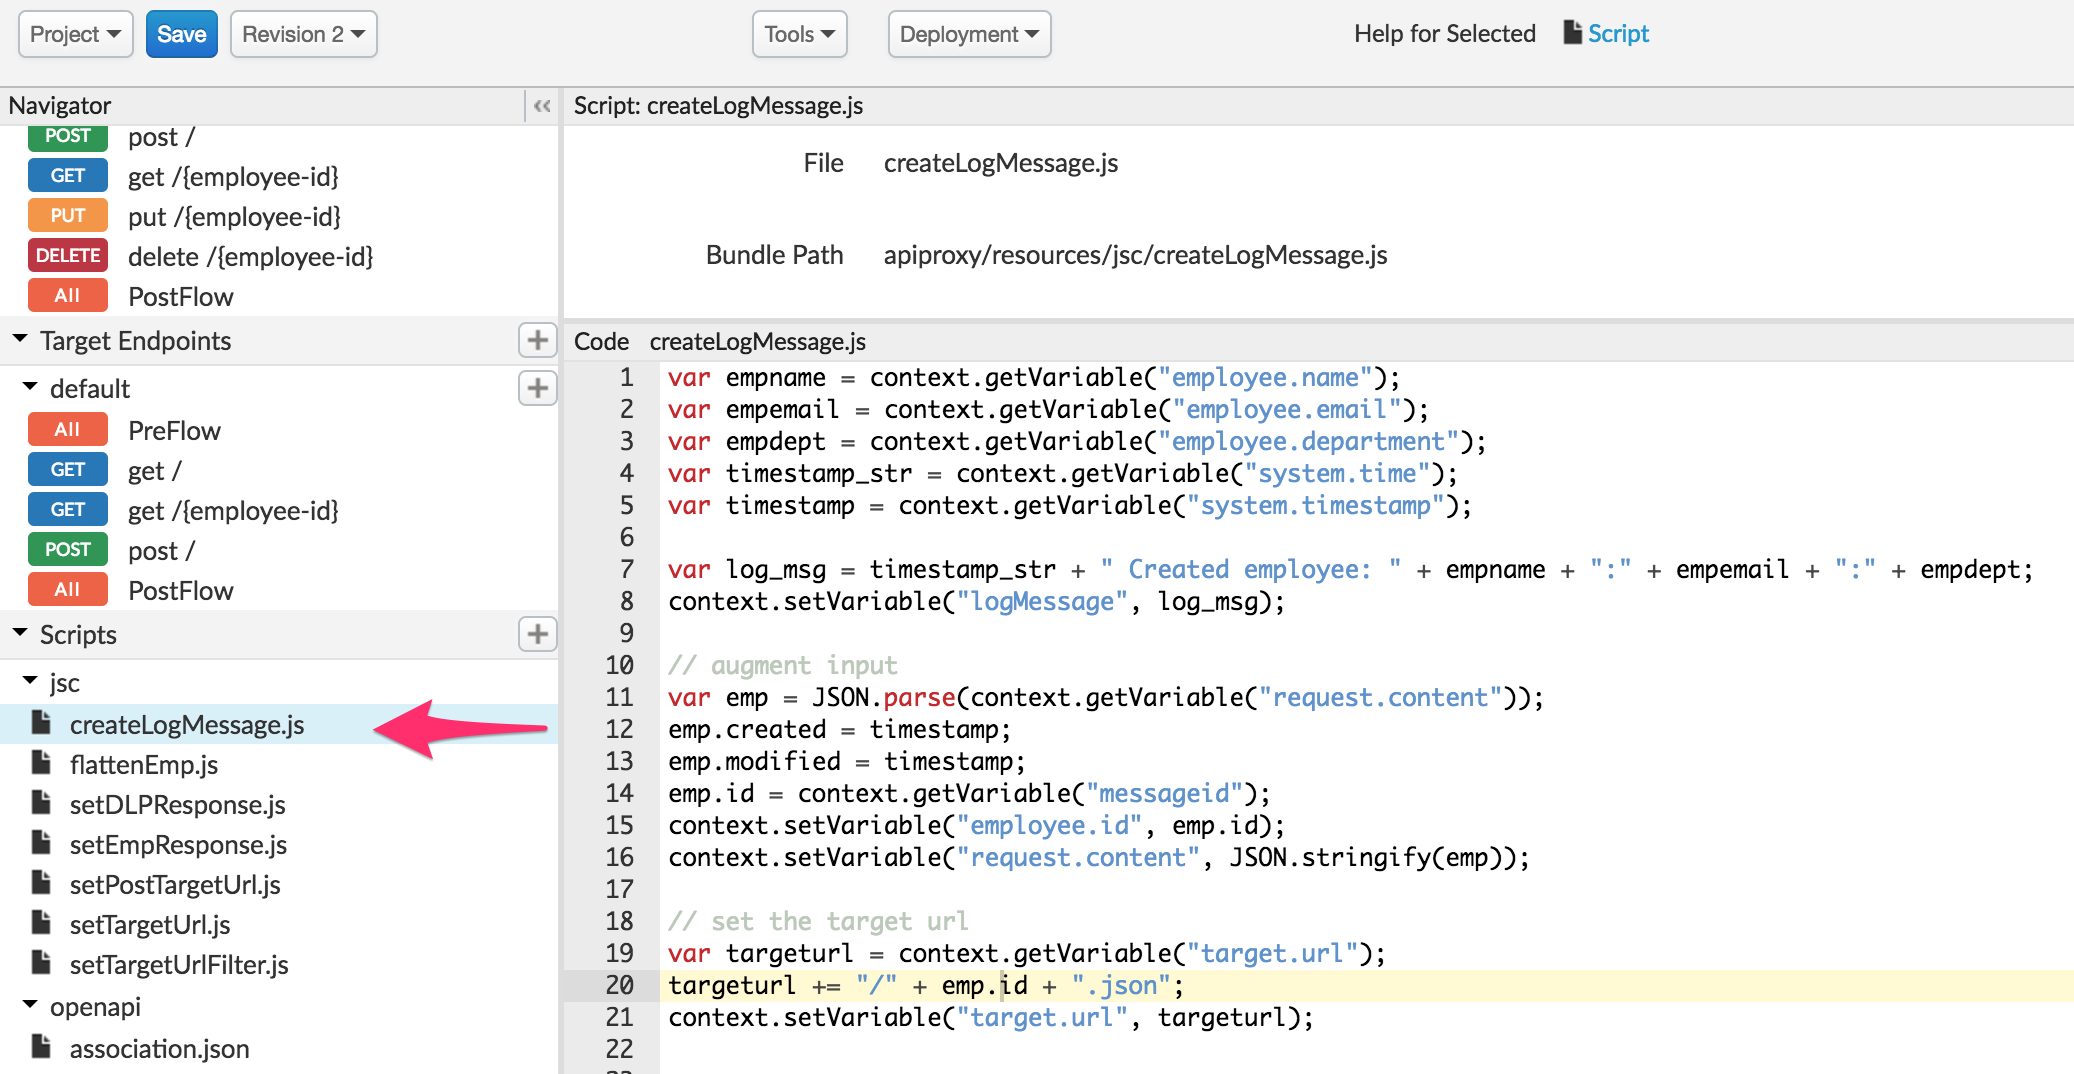
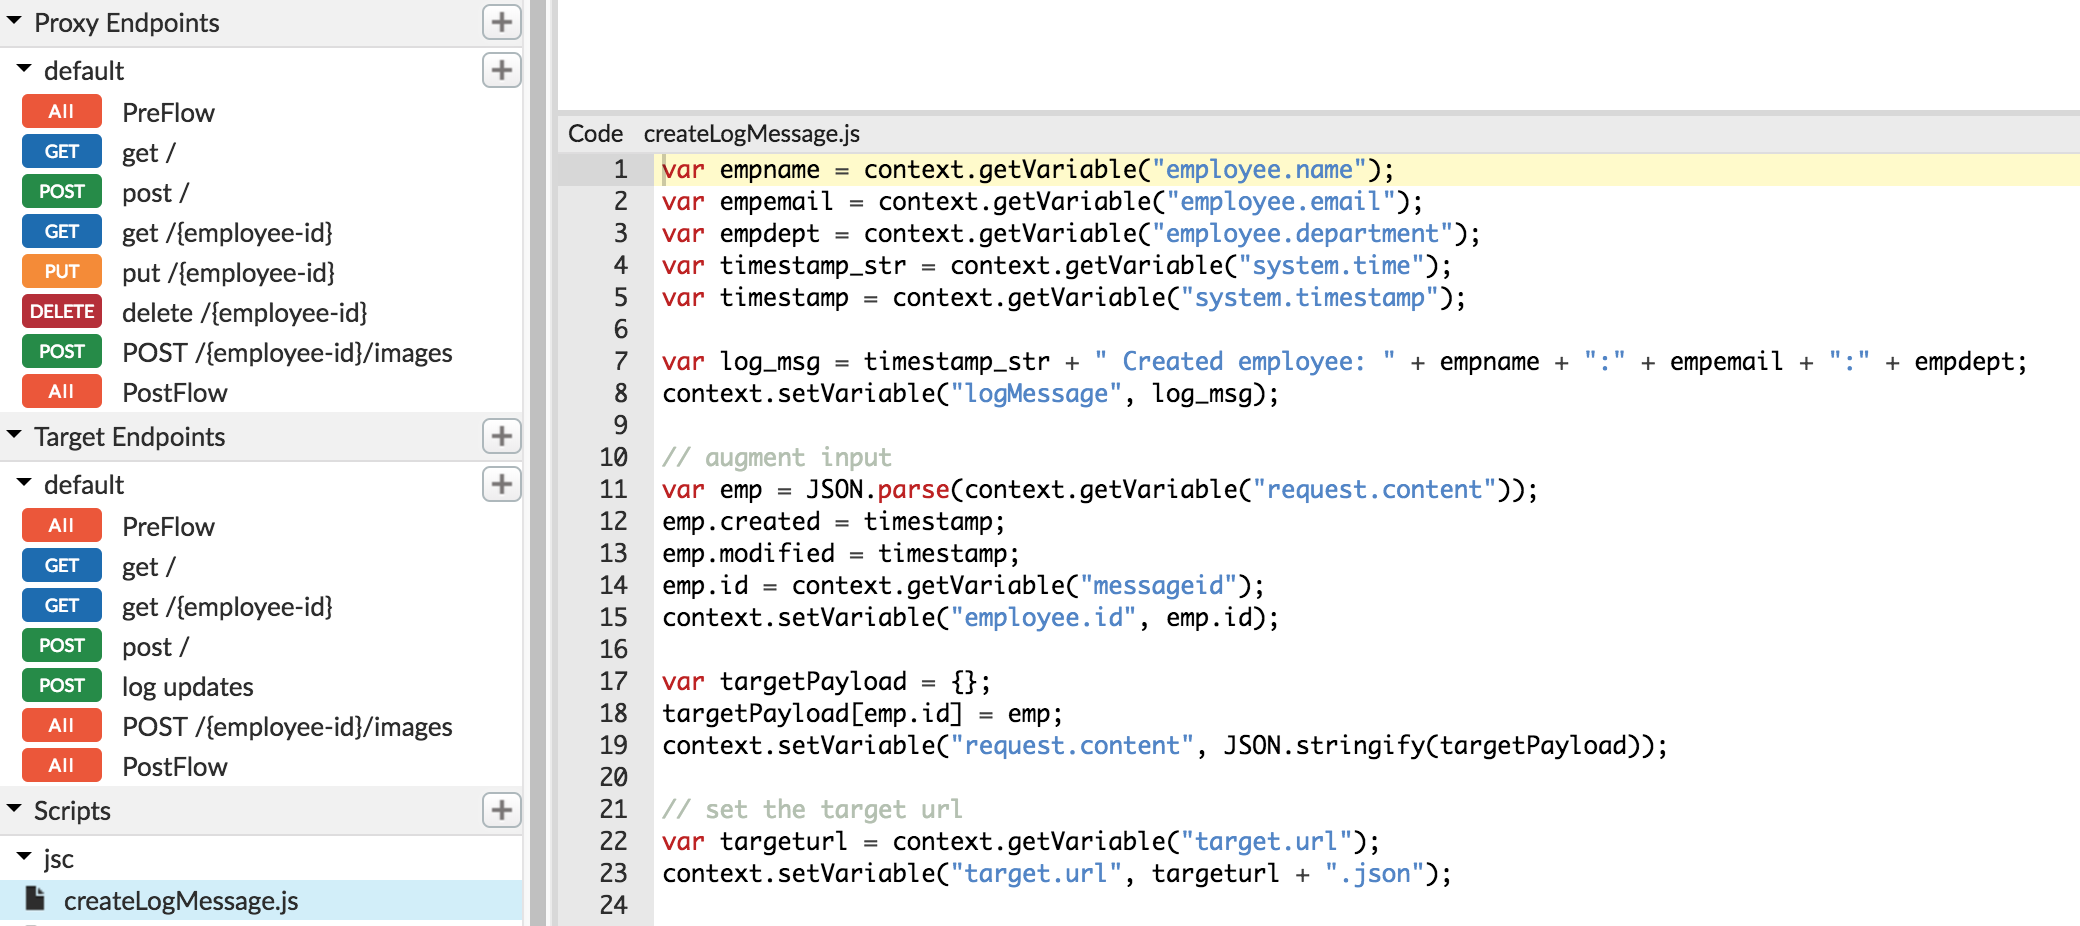
changes to proxy and related documentation

diff --git a/resources/jsc/createLogMessage.js b/resources/jsc/createLogMessage.js
@@ -1,0 +1,23 @@
+var empname = context.getVariable("employee.name");
+var empemail = context.getVariable("employee.email");
+var empdept = context.getVariable("employee.department");
+var timestamp_str = context.getVariable("system.time");
+var timestamp = context.getVariable("system.timestamp");
+
+var log_msg = timestamp_str + " Created employee: " + empname + ":" + empemail + ":" + empdept;
+context.setVariable("logMessage", log_msg);
+
+// augment input
+var emp = JSON.parse(context.getVariable("request.content"));
+emp.created = timestamp;
+emp.modified = timestamp;
+emp.id = context.getVariable("messageid");
+context.setVariable("employee.id", emp.id);
+
+var targetPayload = {};
+targetPayload[emp.id] = emp;
+context.setVariable("request.content", JSON.stringify(targetPayload));
+
+// set the target url
+var targeturl = context.getVariable("target.url");
+context.setVariable("target.url", targeturl + ".json");

diff --git a/resources/jsc/flattenEmp.js b/resources/jsc/flattenEmp.js
@@ -1,0 +1,10 @@
+var emp = context.getVariable("response.content");
+var empJson = JSON.parse(emp);
+
+for (var key in empJson) {
+  if (empJson.hasOwnProperty(key)) {
+    var val = JSON.stringify(empJson[key]);
+    val = val.replace(/"/g, '\\"');
+    context.setVariable("response.content", val);
+  }
+}

diff --git a/resources/jsc/setEmpResponse.js b/resources/jsc/setEmpResponse.js
@@ -1,0 +1,9 @@
+var emp = context.getVariable("response.content");
+var empJson = JSON.parse(emp);
+
+for (var key in empJson) {
+  if (empJson.hasOwnProperty(key)) {
+    var val = empJson[key];
+    context.setVariable("response.content", JSON.stringify(val));
+  }
+}

diff --git a/resources/jsc/setDLPResponse.js b/resources/jsc/setDLPResponse.js
@@ -1,0 +1,6 @@
+var resp = context.getVariable("dlpEmployee");
+if (resp !== null) {
+    var dlpEmpJson = JSON.parse(resp);
+    var dlpOut = JSON.parse(dlpEmpJson.text);
+    context.setVariable("response.content", JSON.stringify(dlpOut));
+}

diff --git a/resources/jsc/setTargetUrl.js b/resources/jsc/setTargetUrl.js
@@ -1,0 +1,3 @@
+
+context.setVariable("target.url", context.getVariable("target.url") + 
+    context.getVariable("proxy.pathsuffix") + ".json"); 

diff --git a/Lab 1 - Using the Stackdriver Logging Extension/README.md b/Lab 1 - Using the Stackdriver Logging Extension/README.md
@@ -122,17 +122,27 @@ In this flow, we first extract certain information from the request payload into
 13. Next, add a Javascript policy to construct the log message using these flow variables in addition to the current timestamp. We also use the same policy to augment the input data with system generated fields, employee id. 
 
 * We add this policy in the Target Endpoint > default > /POST conditional flow request.
-* We will also re-write the target url to POST the request to the backend in this JS. 
+* We will also re-write the target url to send the request to the backend in this JS. 
 
 ![image alt text](./media/image_apigee_proxy_develop_js_edit.png)
 
+14. Next, we need to update the HTTP verb on the request from POST to PATCH since we are updating the existing *employees* data in the backend Firebase database. 
+
+* To do this, add an *AssignMessage* policy as shown. This policy also saves the original value of the incoming request.verb variable for use later.
+
+![image alt text](./media/image_apigee_proxy_develop_am_verb.png)
+
 Save the proxy.
 
-14. Once a successful response is received from the target, we then log the message to Stackdriver. To do this, we add an ExtensionCallout policy that references the Stackdriver extension previously configured; in the Target Endpoint > default > /POST conditional flow response.
+15. Once a successful response is received from the target, we then log the message to Stackdriver. To do this, we add an ExtensionCallout policy that references the Stackdriver extension previously configured; in the Target Endpoint > default > /POST conditional flow response.
+NOTE: This is a separate flow that uses the previously saved value of the request.verb variable.
+To create this flow, simply copy/paste the previous flow and edit it accordingly, as shown below:
+
+![image alt text](./media/image_apigee_proxy_develop_log_flow.png)
+
+16. Update the ExtensionCallout policy to use the logMessage flow variable created by the JS policy in the earlier step.
 
 ![image alt text](./media/image_apigee_proxy_develop_ecpolicy.png)
-
-15. Update the ExtensionCallout policy to use the logMessage flow variable created by the JS policy in the earlier step.
 
 * Modify the policy to supply the name of the log, project_id metadata, and the logMessage variable containing the log message string.
 * Save and deploy the proxy.
